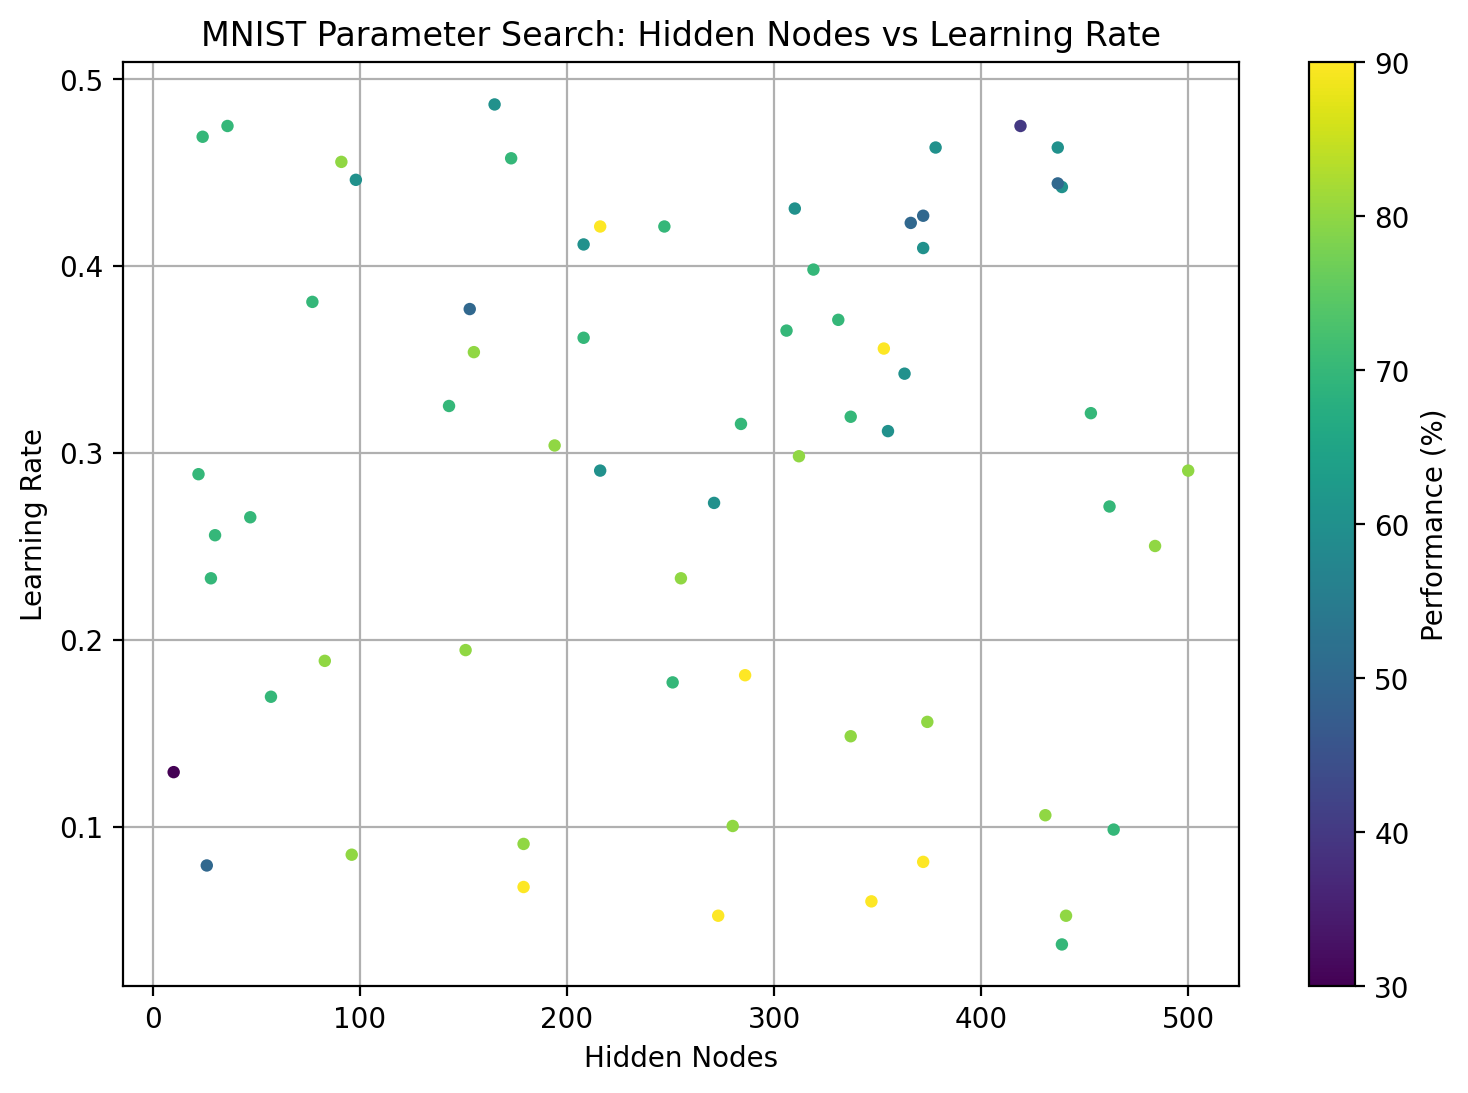
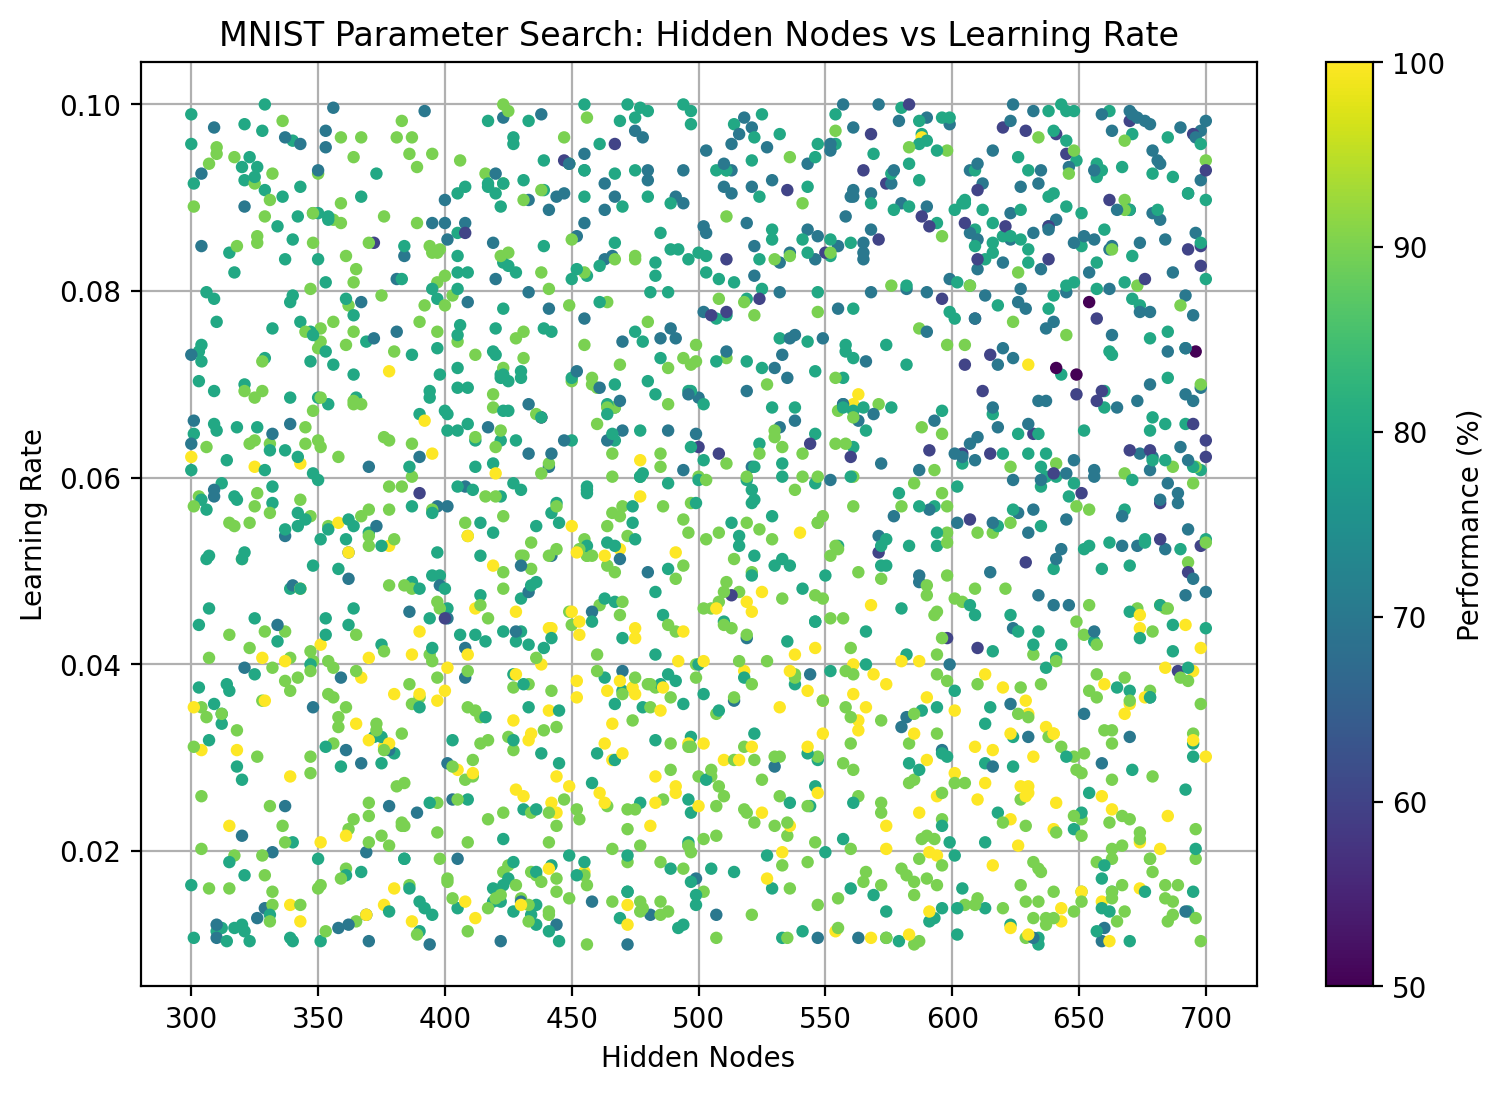
added 2k fashion

diff --git a/cwa/src/main.py b/cwa/src/main.py
@@ -6,13 +6,13 @@ import time
 def seek_optimal_weights():
     import matplotlib.pyplot as plt
 
-    hidden_nodes_min = 1
-    hidden_nodes_max = 1000
+    hidden_nodes_min = 300
+    hidden_nodes_max = 700
 
     learning_rate_min = 0.01
-    learning_rate_max = 0.3
+    learning_rate_max = 0.1
 
-    num_attempts = 25000
+    num_attempts = 2000
 
     input_nodes = 784
     output_nodes = 10
